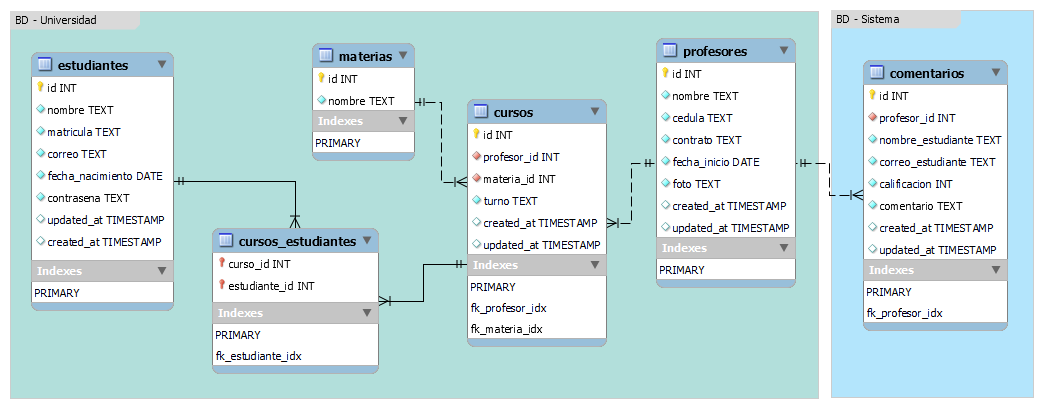
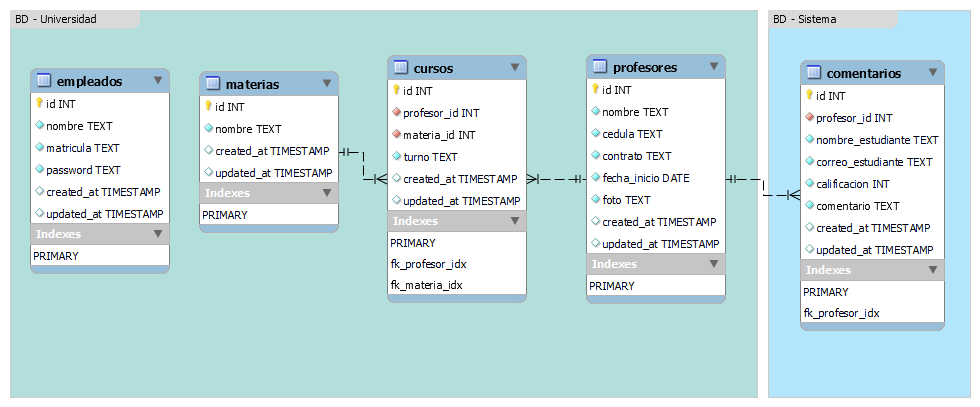
Add empleados migration, seeder and model

diff --git a/database/migrations/2022_11_02_052225_create_empleados_table.php b/database/migrations/2022_11_02_052225_create_empleados_table.php
@@ -1,0 +1,38 @@
+<?php
+
+use Illuminate\Database\Migrations\Migration;
+use Illuminate\Database\Schema\Blueprint;
+use Illuminate\Support\Facades\Schema;
+
+return new class extends Migration
+{
+    /**
+     * Run the migrations.
+     *
+     * @return void
+     */
+    public function up()
+    {
+        $connection = env('APP_ENV') === "testing" ? "sqlite" : "universidad";
+        $db = env('APP_ENV') !== "testing" ? "Universidad." : "";
+
+        Schema::connection($connection)->create('empleados', function (Blueprint $table) {
+            $table->id();
+            $table->string('nombre');
+            $table->string('matricula');
+            $table->string('password');
+            $table->timestamps();
+        });
+    }
+
+    /**
+     * Reverse the migrations.
+     *
+     * @return void
+     */
+    public function down()
+    {
+        $connection = env('APP_ENV') === "testing" ? "sqlite" : "universidad";
+        Schema::connection($connection)->dropIfExists('empleados');
+    }
+};

diff --git a/app/Models/Comentario.php b/app/Models/Comentario.php
@@ -16,19 +16,19 @@ class Comentario extends Model
     protected $guarded = ['id', 'created_at', 'updated_at'];
 
     const RESTRICTED_WORDS = [
-        'pendej',
-        'cabron',
-        'culer',
-        'ching',
-        'pinche',
-        'verga',
-        'wey',
+        'pendejo',  'pendeja',
+        'cabron',   'cabrona',
+        'culero',   'culera',
+        'mamon',    'mamona',
+        'ching',    'pinche',
+        'verga',    'wey',
+        'mamada',
     ];
 
     protected static function booted()
     {
         static::creating(function ($model) {
-            if (\Str::contains($model->comentario, self::RESTRICTED_WORDS)){
+            if (\Str::contains(\Str::lower($model->comentario), self::RESTRICTED_WORDS)){
                 $model->deleted_at = now();
             }
         });

diff --git a/database/seeders/EmpleadosSeeder.php b/database/seeders/EmpleadosSeeder.php
@@ -1,0 +1,29 @@
+<?php
+
+namespace Database\Seeders;
+
+use Illuminate\Database\Console\Seeds\WithoutModelEvents;
+use Illuminate\Database\Seeder;
+
+use App\Models\Empleado;
+
+class EmpleadosSeeder extends Seeder
+{
+    /**
+     * Run the database seeds.
+     *
+     * @return void
+     */
+    public function run()
+    {
+        if (Empleado::count()) {
+            return;
+        }
+
+        Empleado::create([
+            'nombre' => 'Hugo Aguirre',
+            'matricula' => '123',
+            'password' => \Hash::make('123')
+        ]);
+    }
+}

diff --git a/tests/Feature/ComentariosTest.php b/tests/Feature/ComentariosTest.php
@@ -61,7 +61,7 @@ class ComentariosTest extends TestCase
     public function testNoPuedoPublicarUnComentarioConPalabrasRestringidas()
     {
         $profesor = Profesor::all()->random();
-        $comentario = "pinche profe pendejo";
+        $comentario = "PINCHE profe pendejo";
 
         $response = $this->post("evalua/". $profesor->id, [
             'nombre' => 'nombre',

diff --git a/app/Models/Empleado.php b/app/Models/Empleado.php
@@ -1,0 +1,13 @@
+<?php
+
+namespace App\Models;
+
+use Illuminate\Database\Eloquent\Factories\HasFactory;
+use Illuminate\Database\Eloquent\Model;
+
+class Empleado extends Model
+{
+    protected $connection = 'universidad';
+    protected $table = 'empleados';
+    protected $guarded = ['id', 'created_at', 'updated_at'];
+}

diff --git a/database/seeders/DatabaseSeeder.php b/database/seeders/DatabaseSeeder.php
@@ -18,6 +18,7 @@ class DatabaseSeeder extends Seeder
             ProfesorSeeder::class,
             ComentarioSeeder::class,
             CursosSeeder::class,
+            EmpleadosSeeder::class,
         ]);
     }
 }
